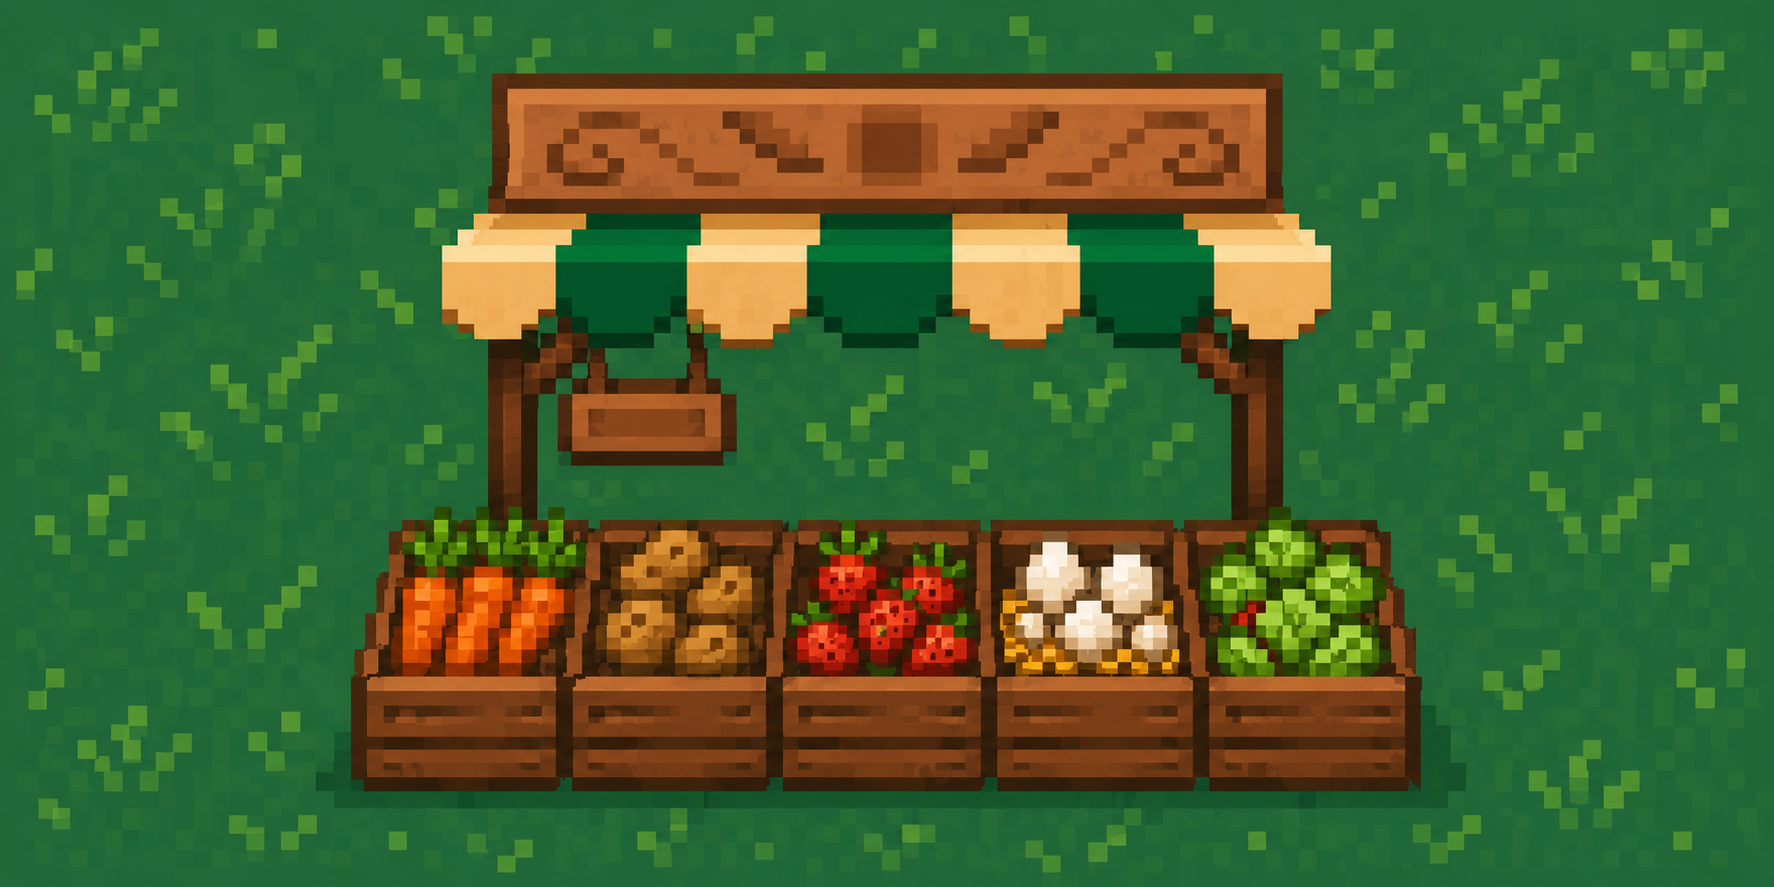
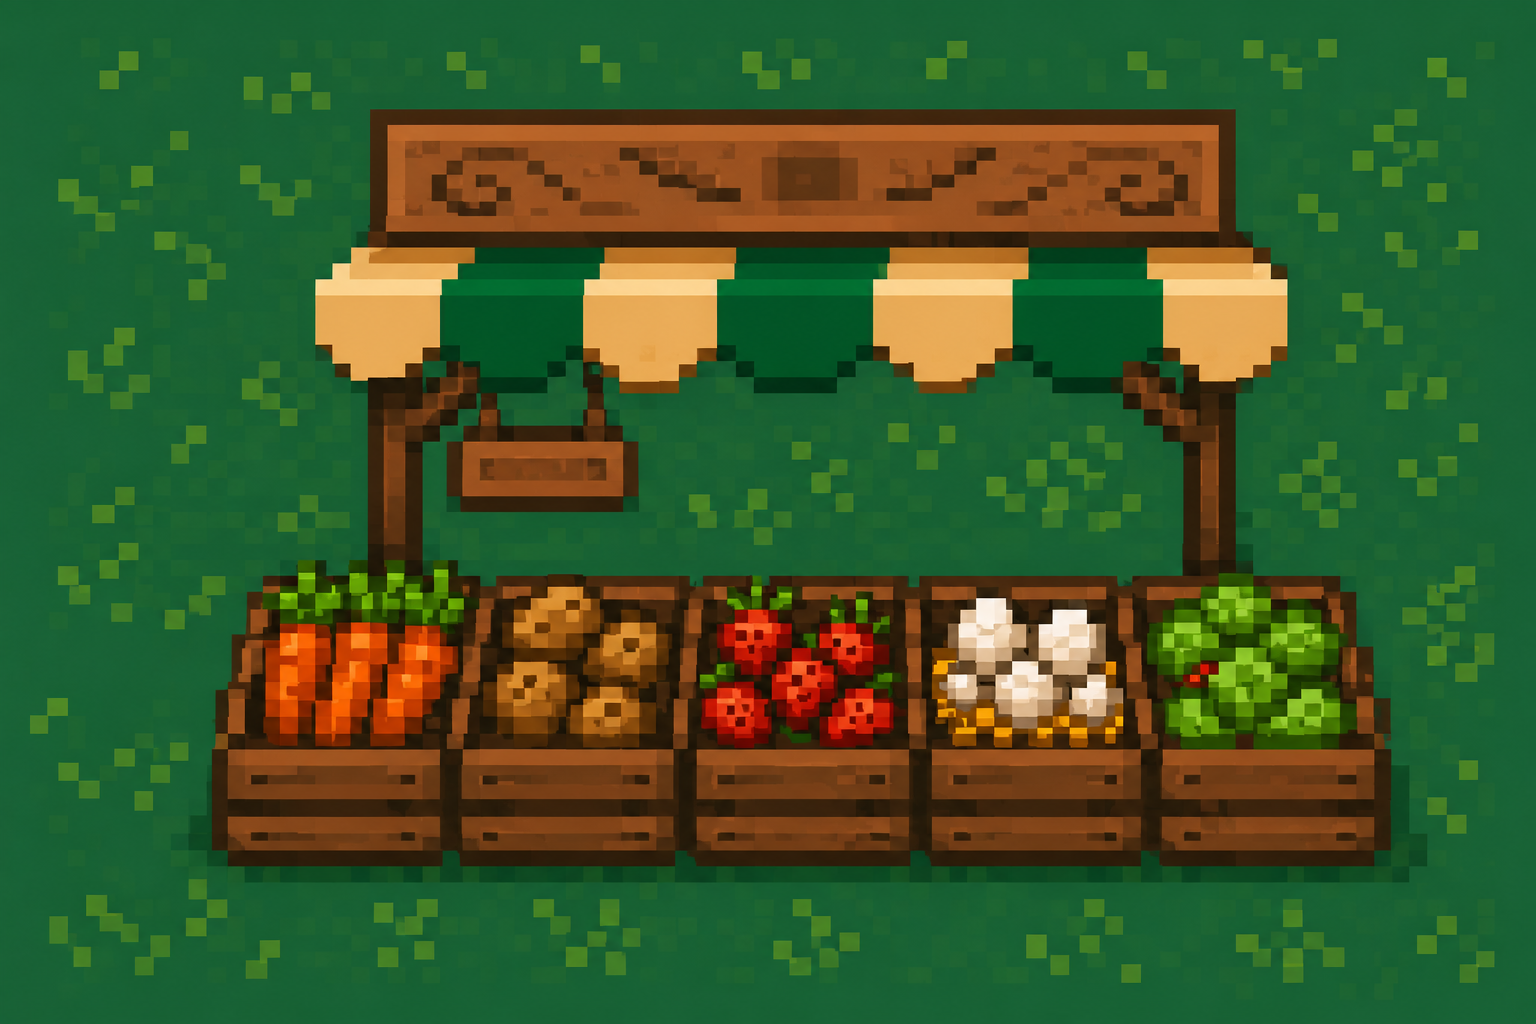
Menambahkan foto

diff --git a/src/game/world/TileMap.java b/src/game/world/TileMap.java
@@ -337,7 +337,11 @@ public class TileMap {
                 int sy = r * ts - cam.y;
                 if (sx + ts < 0 || sx > GamePanel.SCREEN_WIDTH)  continue;
                 if (sy + ts < 0 || sy > GamePanel.SCREEN_HEIGHT) continue;
-                tiles[r][c].render(g, sx, sy, ts);
+
+                // Skip HOUSE & SHOP, dirender terpisah
+                if (tiles[r][c].getType() != TileType.HOUSE && tiles[r][c].getType() != TileType.SHOP) {
+                    tiles[r][c].render(g, sx, sy, ts);
+                }
 
                 FarmTile farm = farmData[r][c];
                 if (farm.isTilled()) {
@@ -347,6 +351,7 @@ public class TileMap {
         }
         renderWaterAsOne(g, cam);
         renderShopAsOne(g, cam);
+        renderHouseAsOne(g, cam);
     }
 
     private void renderWaterAsOne(Graphics2D g, Camera cam) {
@@ -398,6 +403,31 @@ public class TileMap {
         int h = (maxR - minR + 1) * ts;
 
         g.drawImage(SHOP_IMG, x, y, w, h, null);
+    }
+
+    private void renderHouseAsOne(Graphics2D g, Camera cam) {
+        if (HOUSE_IMG == null) return;
+        int ts = GamePanel.TILE_SCALED;
+        int minR = Integer.MAX_VALUE, minC = Integer.MAX_VALUE;
+        int maxR = -1, maxC = -1;
+
+        for (int r = 0; r < rows; r++)
+            for (int c = 0; c < cols; c++)
+                if (tiles[r][c].getType() == TileType.HOUSE) {
+                    if (r < minR) minR = r;
+                    if (r > maxR) maxR = r;
+                    if (c < minC) minC = c;
+                    if (c > maxC) maxC = c;
+                }
+
+        if (maxR == -1) return;
+
+        int x = minC * ts - cam.x;
+        int y = minR * ts - cam.y;
+        int w = (maxC - minC + 1) * ts;
+        int h = (maxR - minR + 1) * ts;
+
+        g.drawImage(HOUSE_IMG, x, y, w, h, null);
     }
 
     public int getRows() { return rows; }